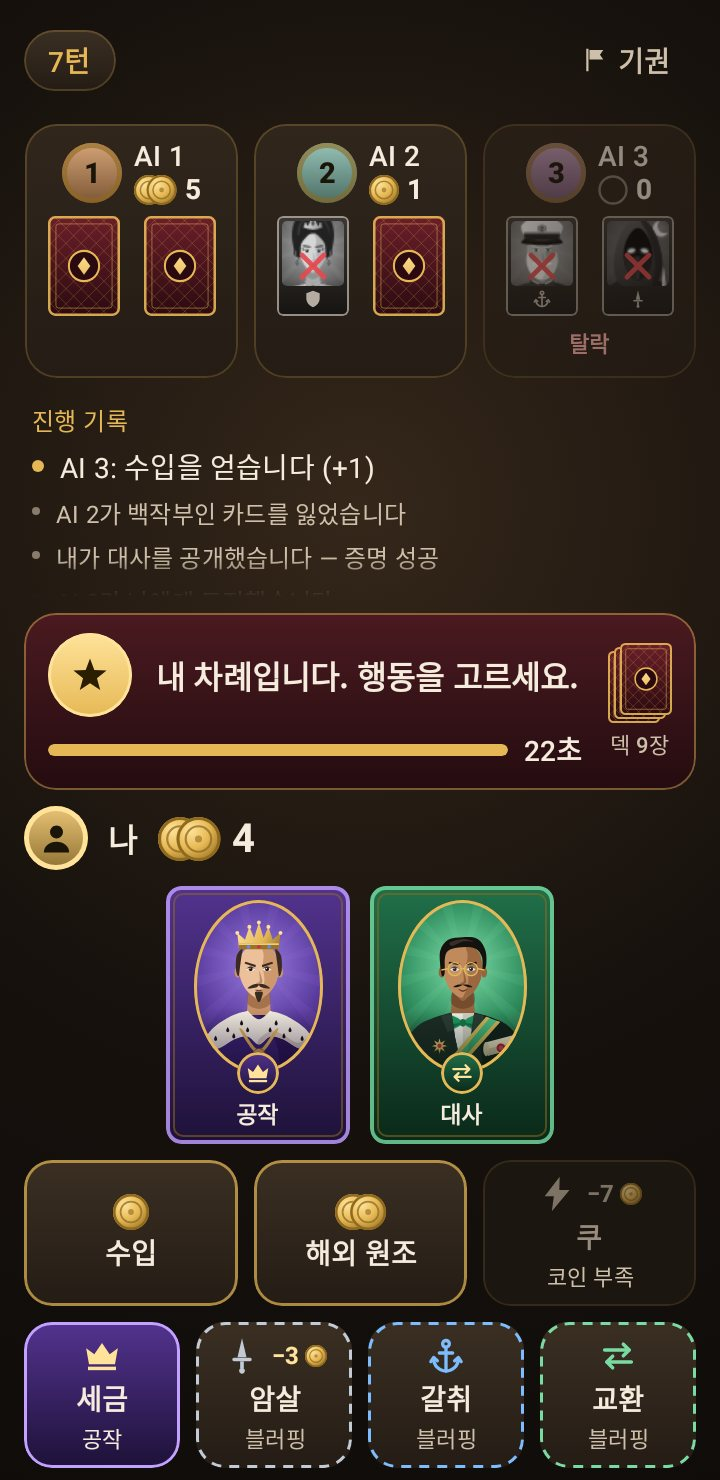
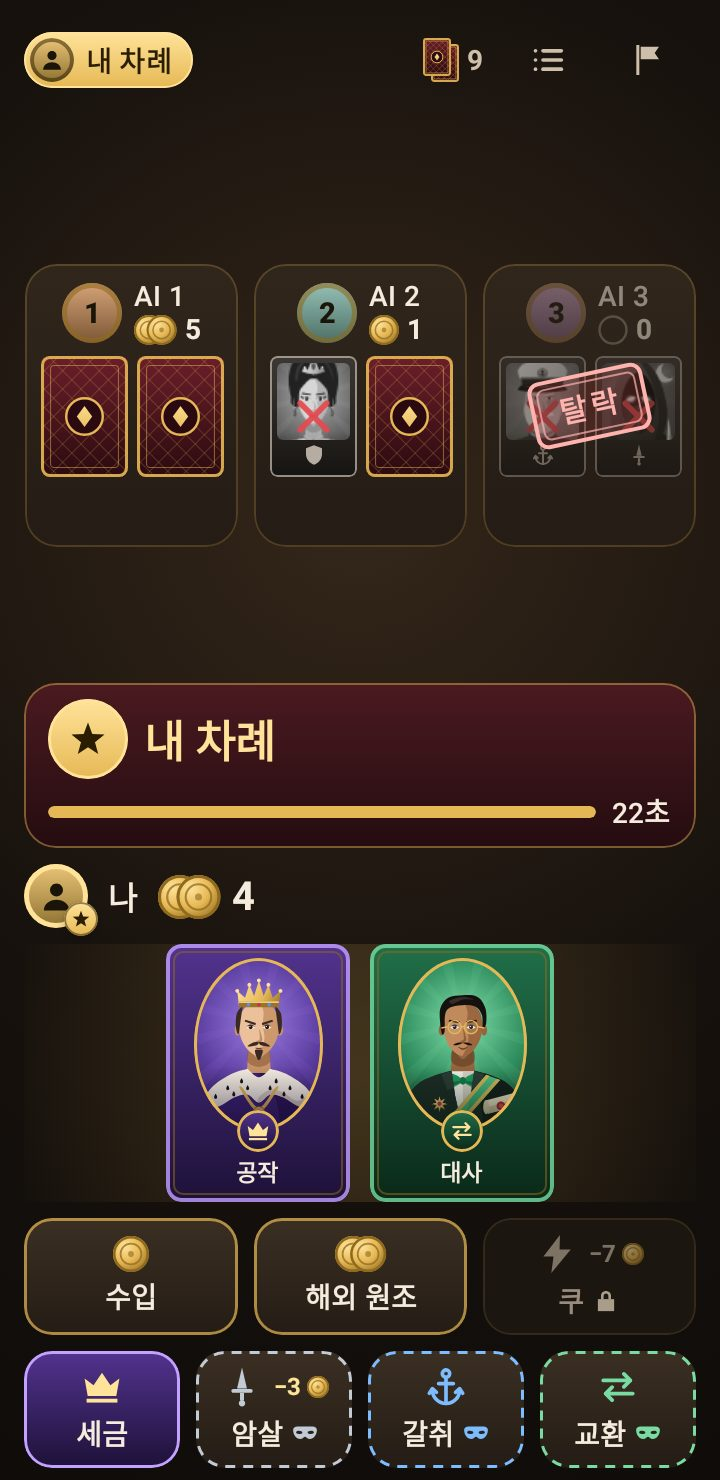
Pin the stage timer and claim card rules, refresh the design shots
Mutation testing found two rules the tests did not hold: the stage must
not show my timer while I respond (the sheet shows it), and the lifted
claim card must not grow its seat. Seats in a row always share a height,
so the claim test now compares the same seat before and after the claim.

The gallery gains the duke-tax response and the log sheet, and the
design doc images are re-rendered from it.

Claude-Session: https://claude.ai/code/session_013CyF2zkH5Zp3M7nVCtjeB4

diff --git a/app/src/test/java/io/github/lhd980820/coup/game/StageSceneTest.kt b/app/src/test/java/io/github/lhd980820/coup/game/StageSceneTest.kt
@@ -5,6 +5,7 @@ import androidx.compose.runtime.CompositionLocalProvider
 import androidx.compose.runtime.mutableStateOf
 import androidx.compose.ui.geometry.Rect
 import androidx.compose.ui.test.junit4.createComposeRule
+import androidx.compose.ui.test.onAllNodesWithTag
 import androidx.test.core.app.ApplicationProvider
 import io.github.lhd980820.coup.engine.model.ActionId
 import io.github.lhd980820.coup.engine.model.CardId
@@ -178,5 +179,28 @@ class StageSceneTest {
         shown.value = false
         compose.waitForIdle()
         assertNull(anchors.stage)
+    }
+
+    @Test
+    fun `판은 내 결정의 남은 시간을 보이지만, 응답할 때는 보이지 않는다(응답 시트가 보인다)`() {
+        val deadline = 1_000_000L + 9_000
+        val pick = state.copy(decision = io.github.lhd980820.coup.presentation.DecisionUi.PickTarget(ActionId("steal"), listOf(a1)), myDeadline = deadline)
+        val respond = state.copy(
+            decision = io.github.lhd980820.coup.presentation.DecisionUi.Respond(
+                io.github.lhd980820.coup.engine.model.WindowKind.ACTION, ActionId("tax"), a1, null, a1, setOf(RoleId("duke")), true, emptyList(),
+            ),
+            myDeadline = deadline,
+        )
+        val shown = mutableStateOf(pick)
+        compose.setContent {
+            CompositionLocalProvider(LocalNowMillis provides { 1_000_000L }) {
+                CoupTheme { StagePanel(shown.value, GameTexts(res, shown.value)) }
+            }
+        }
+        compose.waitForIdle()
+        assertEquals(1, compose.onAllNodesWithTag(GameTags.TIMER_MINE).fetchSemanticsNodes().size)
+        shown.value = respond
+        compose.waitForIdle()
+        assertEquals(0, compose.onAllNodesWithTag(GameTags.TIMER_MINE).fetchSemanticsNodes().size)
     }
 }

diff --git a/app/src/test/java/io/github/lhd980820/coup/game/GameTableTest.kt b/app/src/test/java/io/github/lhd980820/coup/game/GameTableTest.kt
@@ -193,10 +193,18 @@ class GameTableTest {
 
     @Test
     fun `들어 보인 카드는 자리 크기를 바꾸지 않는다`() {
-        show(state(opponents = listOf(opponent(1, claiming = setOf(RoleId("captain"))), opponent(2))))
+        // 같은 줄의 자리는 늘 높이가 같으므로 옆 자리가 아니라 같은 자리의 주장 전후를 비교한다
+        val shown = androidx.compose.runtime.mutableStateOf(state(opponents = listOf(opponent(1), opponent(2))))
+        compose.setContent {
+            CompositionLocalProvider(LocalNowMillis provides { now }) {
+                CoupTheme { GameScreen(shown.value, emptyFlow(), Recorder(), onExit = {}, onPlayAgain = {}) }
+            }
+        }
+        val before = compose.onNodeWithTag(GameTags.opponent("p1")).getUnclippedBoundsInRoot()
+        shown.value = state(opponents = listOf(opponent(1, claiming = setOf(RoleId("captain"))), opponent(2)))
+        compose.waitForIdle()
         val claiming = compose.onNodeWithTag(GameTags.opponent("p1")).getUnclippedBoundsInRoot()
-        val idle = compose.onNodeWithTag(GameTags.opponent("p2")).getUnclippedBoundsInRoot()
-        assertEquals(idle.bottom - idle.top, claiming.bottom - claiming.top)
+        assertEquals(before.bottom - before.top, claiming.bottom - claiming.top)
         // 카드는 자리 안, 카드 줄 위에 놓인다
         val card = compose.onNodeWithTag(GameTags.claim("p1")).getUnclippedBoundsInRoot()
         assertTrue("$card in $claiming", card.top >= claiming.top && card.bottom <= claiming.bottom)

diff --git a/app/src/test/java/io/github/lhd980820/coup/ScreenshotGalleryTest.kt b/app/src/test/java/io/github/lhd980820/coup/ScreenshotGalleryTest.kt
@@ -204,6 +204,34 @@ class ScreenshotGalleryTest {
     }
 
     @Test
+    fun `행동 - 공작 세금`() {
+        // 대상이 없는 행동: 화살표 대신 들어 보인 카드와 가운데 판의 +3이 알린다
+        val respond = DecisionUi.Respond(WindowKind.ACTION, ActionId("tax"), a1, null, a1, setOf(role("duke")), true, emptyList())
+        game(
+            state(
+                banner = Banner.ActionDeclared(a1, ActionId("tax"), null, setOf(role("duke")), setOf(me, a2)),
+                decision = respond,
+                deadline = now + 10_000,
+                opponents = listOf(
+                    OpponentUi(a1, "AI 1", 5, 2, emptyList(), true, OpponentStatus.IDLE, setOf(role("duke")), null, false),
+                    OpponentUi(a2, "AI 2", 1, 1, listOf(role("contessa")), true, OpponentStatus.THINKING, emptySet(), now + 10_000, false),
+                    OpponentUi(a3, "AI 3", 0, 0, listOf(role("captain"), role("assassin")), false, OpponentStatus.ELIMINATED, emptySet(), null, false),
+                ),
+                turn = a1,
+            ),
+        )
+        shoot("action_tax")
+    }
+
+    @Test
+    fun `게임 - 기록 창`() {
+        game(state(decision = null, deadline = null))
+        compose.onNodeWithTag(GameTags.LOG_OPEN).performClick()
+        compose.waitForIdle()
+        shoot("game_log")
+    }
+
+    @Test
     fun `행동 - 상대끼리 암살`() {
         game(
             state(

diff --git a/docs/BACKLOG.md b/docs/BACKLOG.md
@@ -39,6 +39,7 @@
   문장은 스크린리더 설명으로 옮겼다. ② 가운데의 기록을 구석으로 -> 표시줄의 **기록 버튼**(창으로 뜬다, 넓은 화면은 옆 단 그대로). 덱·기권도 표시줄 구석의 그림으로.
   ③ 주장하는 카드가 잘 안 보였다 -> 주장하는 동안 그 역할 카드를 **자리의 카드들 위로 크게 들어 보이고**(역할 색으로 빛남), 판에도 크게 놓인다. 남는 높이만큼 자리의 카드도 커진다.
   화살표는 판 아래로 지나가 판의 그림을 가리지 않는다([DESIGN.md](DESIGN.md) "가운데 판"). 테스트 `StageSceneTest` 외 `GameTableTest`·`GamePolishTest`·`MomentScreenTest`·`TableStoryTest` 갱신.
+  변이 40종을 모두 검출(처음에 살아남은 2종 — 응답 중 판의 시간 막대, 들어 보인 카드가 자리를 키우는 것 — 은 테스트를 고쳐 잡았다).
   ④ ADB 기기로 직접 돌려 보기 -> **못 했다**: 이 작업은 클라우드 컨테이너에서 돌아 오너의 컴퓨터(에 꽂힌 기기)에 닿지 못한다. 스크린샷 모음으로 대신 확인했다.
   **실기기에서 확인할 것**: 그림만으로 행동 칸·막기 버튼·판의 장면이 처음 하는 사람에게도 읽히는지, 기록 버튼을 찾을 수 있는지, 커진 자리 카드의 균형.
 - ~~극적인 순간의 큰 연출~~ — **✅ 2026-11-18**: 도전·증명/거짓말·막기·쿠·탈락의 컷인 띠, 탈락 도장, 내 카드를 잃을 때의 붉은 번쩍임·흔들림·진동, 승리/패배 연출, 마지막 순간 뒤에 뜨는 결과([DESIGN.md](DESIGN.md) "극적인 순간"). 테스트 `MomentLogicTest`·`MomentScreenTest`·`MomentTextsTest`, 변이 42종 중 40종 검출(나머지 2종은 연출이 꺼져 있을 때의 지름길이라 빼도 한 프레임 늦을 뿐인 같은 동작). 남은 것: 코인이 날아가는 연출, 진동 켜기/끄기 설정. **실기기에서 확인할 것**: 연출의 길이와 빈도(너무 잦거나 느리지 않은지), 진동 세기, 결과 화면이 뜨기까지의 기다림.

diff --git a/docs/DESIGN.md b/docs/DESIGN.md
@@ -99,6 +99,10 @@ python3 tools/card-art/portraits.py --preview DIR    # 확인용 SVG 와 preview
 지금 벌어지는 일을 **그림 한 줄**로 보인다(`StagePanel` / `SceneRow`): **[누가] [무슨 카드/문양] [무엇을 · +코인 · 기다리는 얼굴] → [누구에게]**.
 글은 한두 낱말("세금", "막기", "도전")뿐이고, 스크린리더에는 진행 문장 전체와 기다리는 사람이 읽힌다(`spokenScene`).
 
+| 공작 세금(+3)에 응답 | 사령관 갈취에 응답 | 기록 창 |
+|---|---|---|
+| ![세금](design/action_tax.jpg) | ![갈취](design/action_steal_me.jpg) | ![기록](design/game_log_dialog.jpg) |
+
 | 진행 | 장면 |
 |---|---|
 | 내 차례 | 금색 별, "내 차례"(쿠만 할 수 있으면 번개) |
